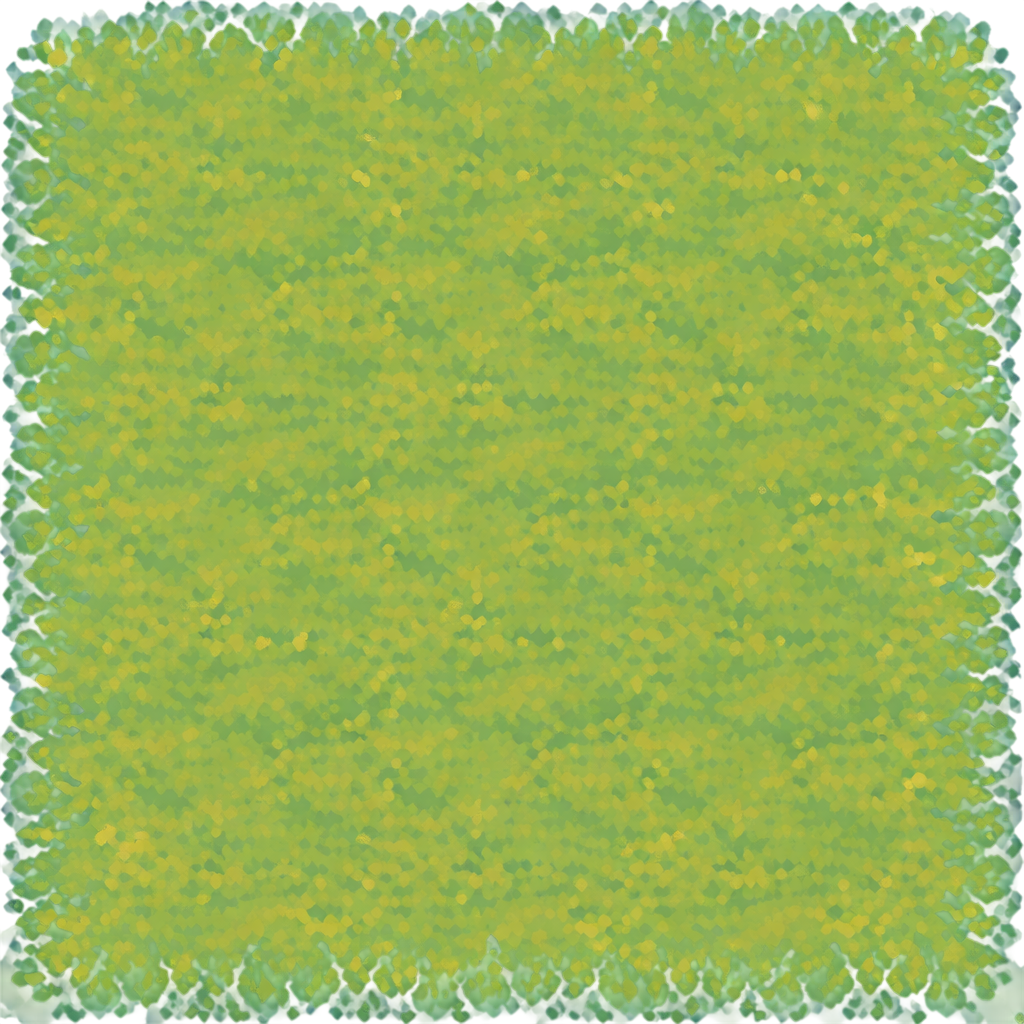
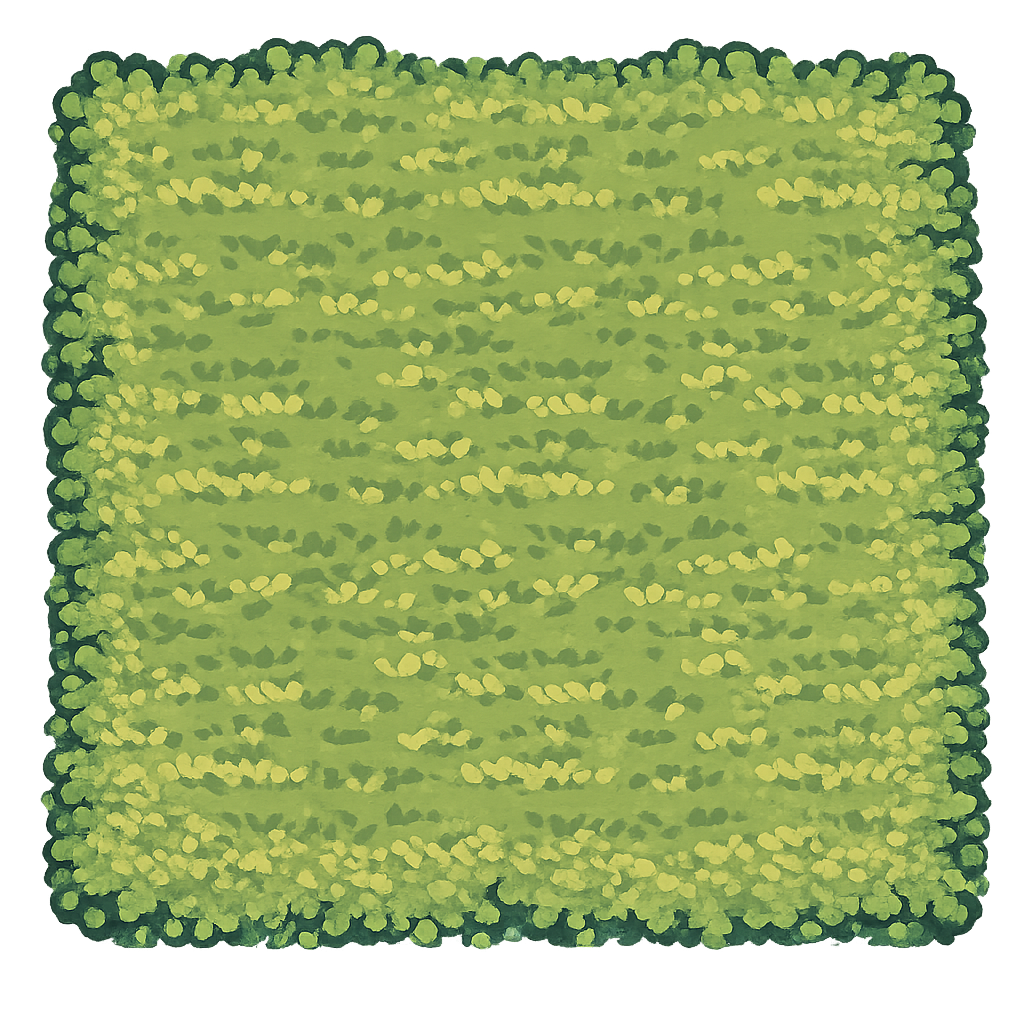
update bg tile

diff --git a/js/configs/sprites.js b/js/configs/sprites.js
@@ -14,7 +14,7 @@ export const SPRITES = {
         },
         tree: "/assets/tree/2.png",
         rock: "/assets/rock/2.png",
-        tile: "/assets/bg/7.png"
+        tile: "/assets/bg/8.png"
     },
 
     advanced: {
@@ -23,6 +23,6 @@ export const SPRITES = {
         },
         tree: "/assets/tree/3.png",
         rock: "/assets/rock/3.png",
-        tile: "/assets/bg/7.png"
+        tile: "/assets/bg/9.png"
     }
 };

diff --git a/js/services/quizService.js b/js/services/quizService.js
@@ -2,7 +2,7 @@ import { apiGet } from "./api.js";
 
 
 const QUIZ_ID = 19;
-const QUIZ_MODE = "level";
+const QUIZ_MODE = "basic";
 
 function mapQuestion(question) {
 
